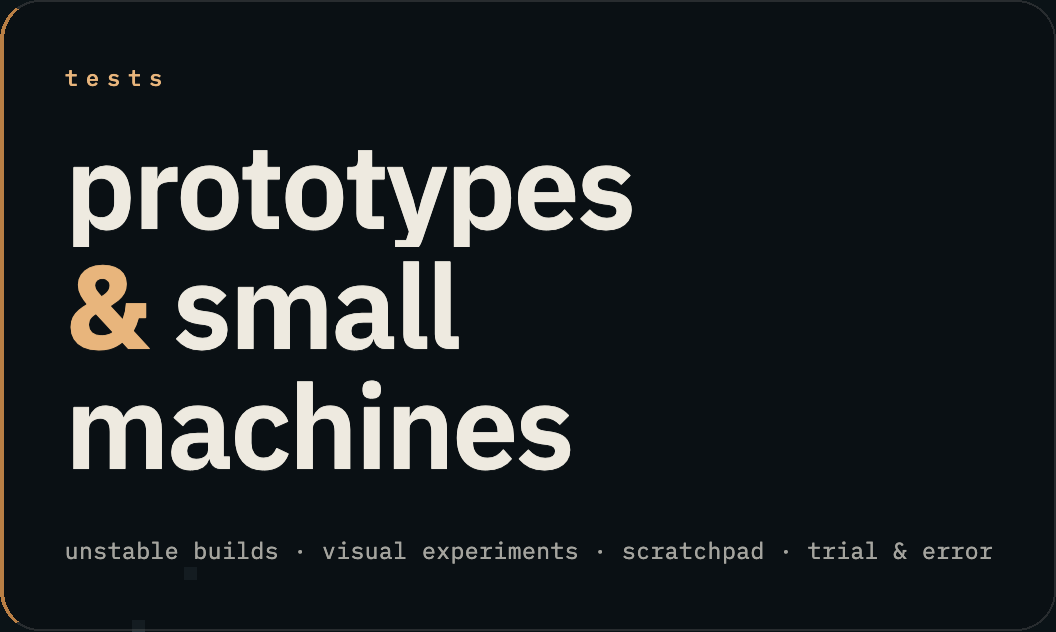
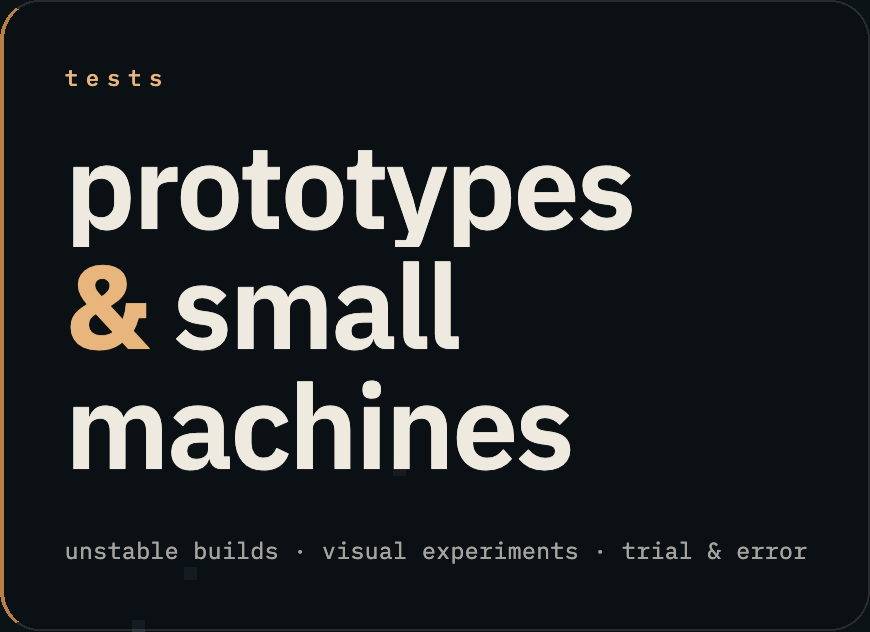
shell hero: drop "scratchpad" from the note

diff --git a/portfolio/shell/src/shell/LandingPage.tsx b/portfolio/shell/src/shell/LandingPage.tsx
@@ -854,7 +854,7 @@ export default function LandingPage({
               </span>
             </h1>
             <p className="signal-index-hero-note">
-              unstable builds&nbsp;· visual experiments&nbsp;· scratchpad&nbsp;· trial &amp; error
+              unstable builds&nbsp;· visual experiments&nbsp;· trial &amp; error
             </p>
           </div>
           <div className="signal-index-graphic signal-index-beneath">
